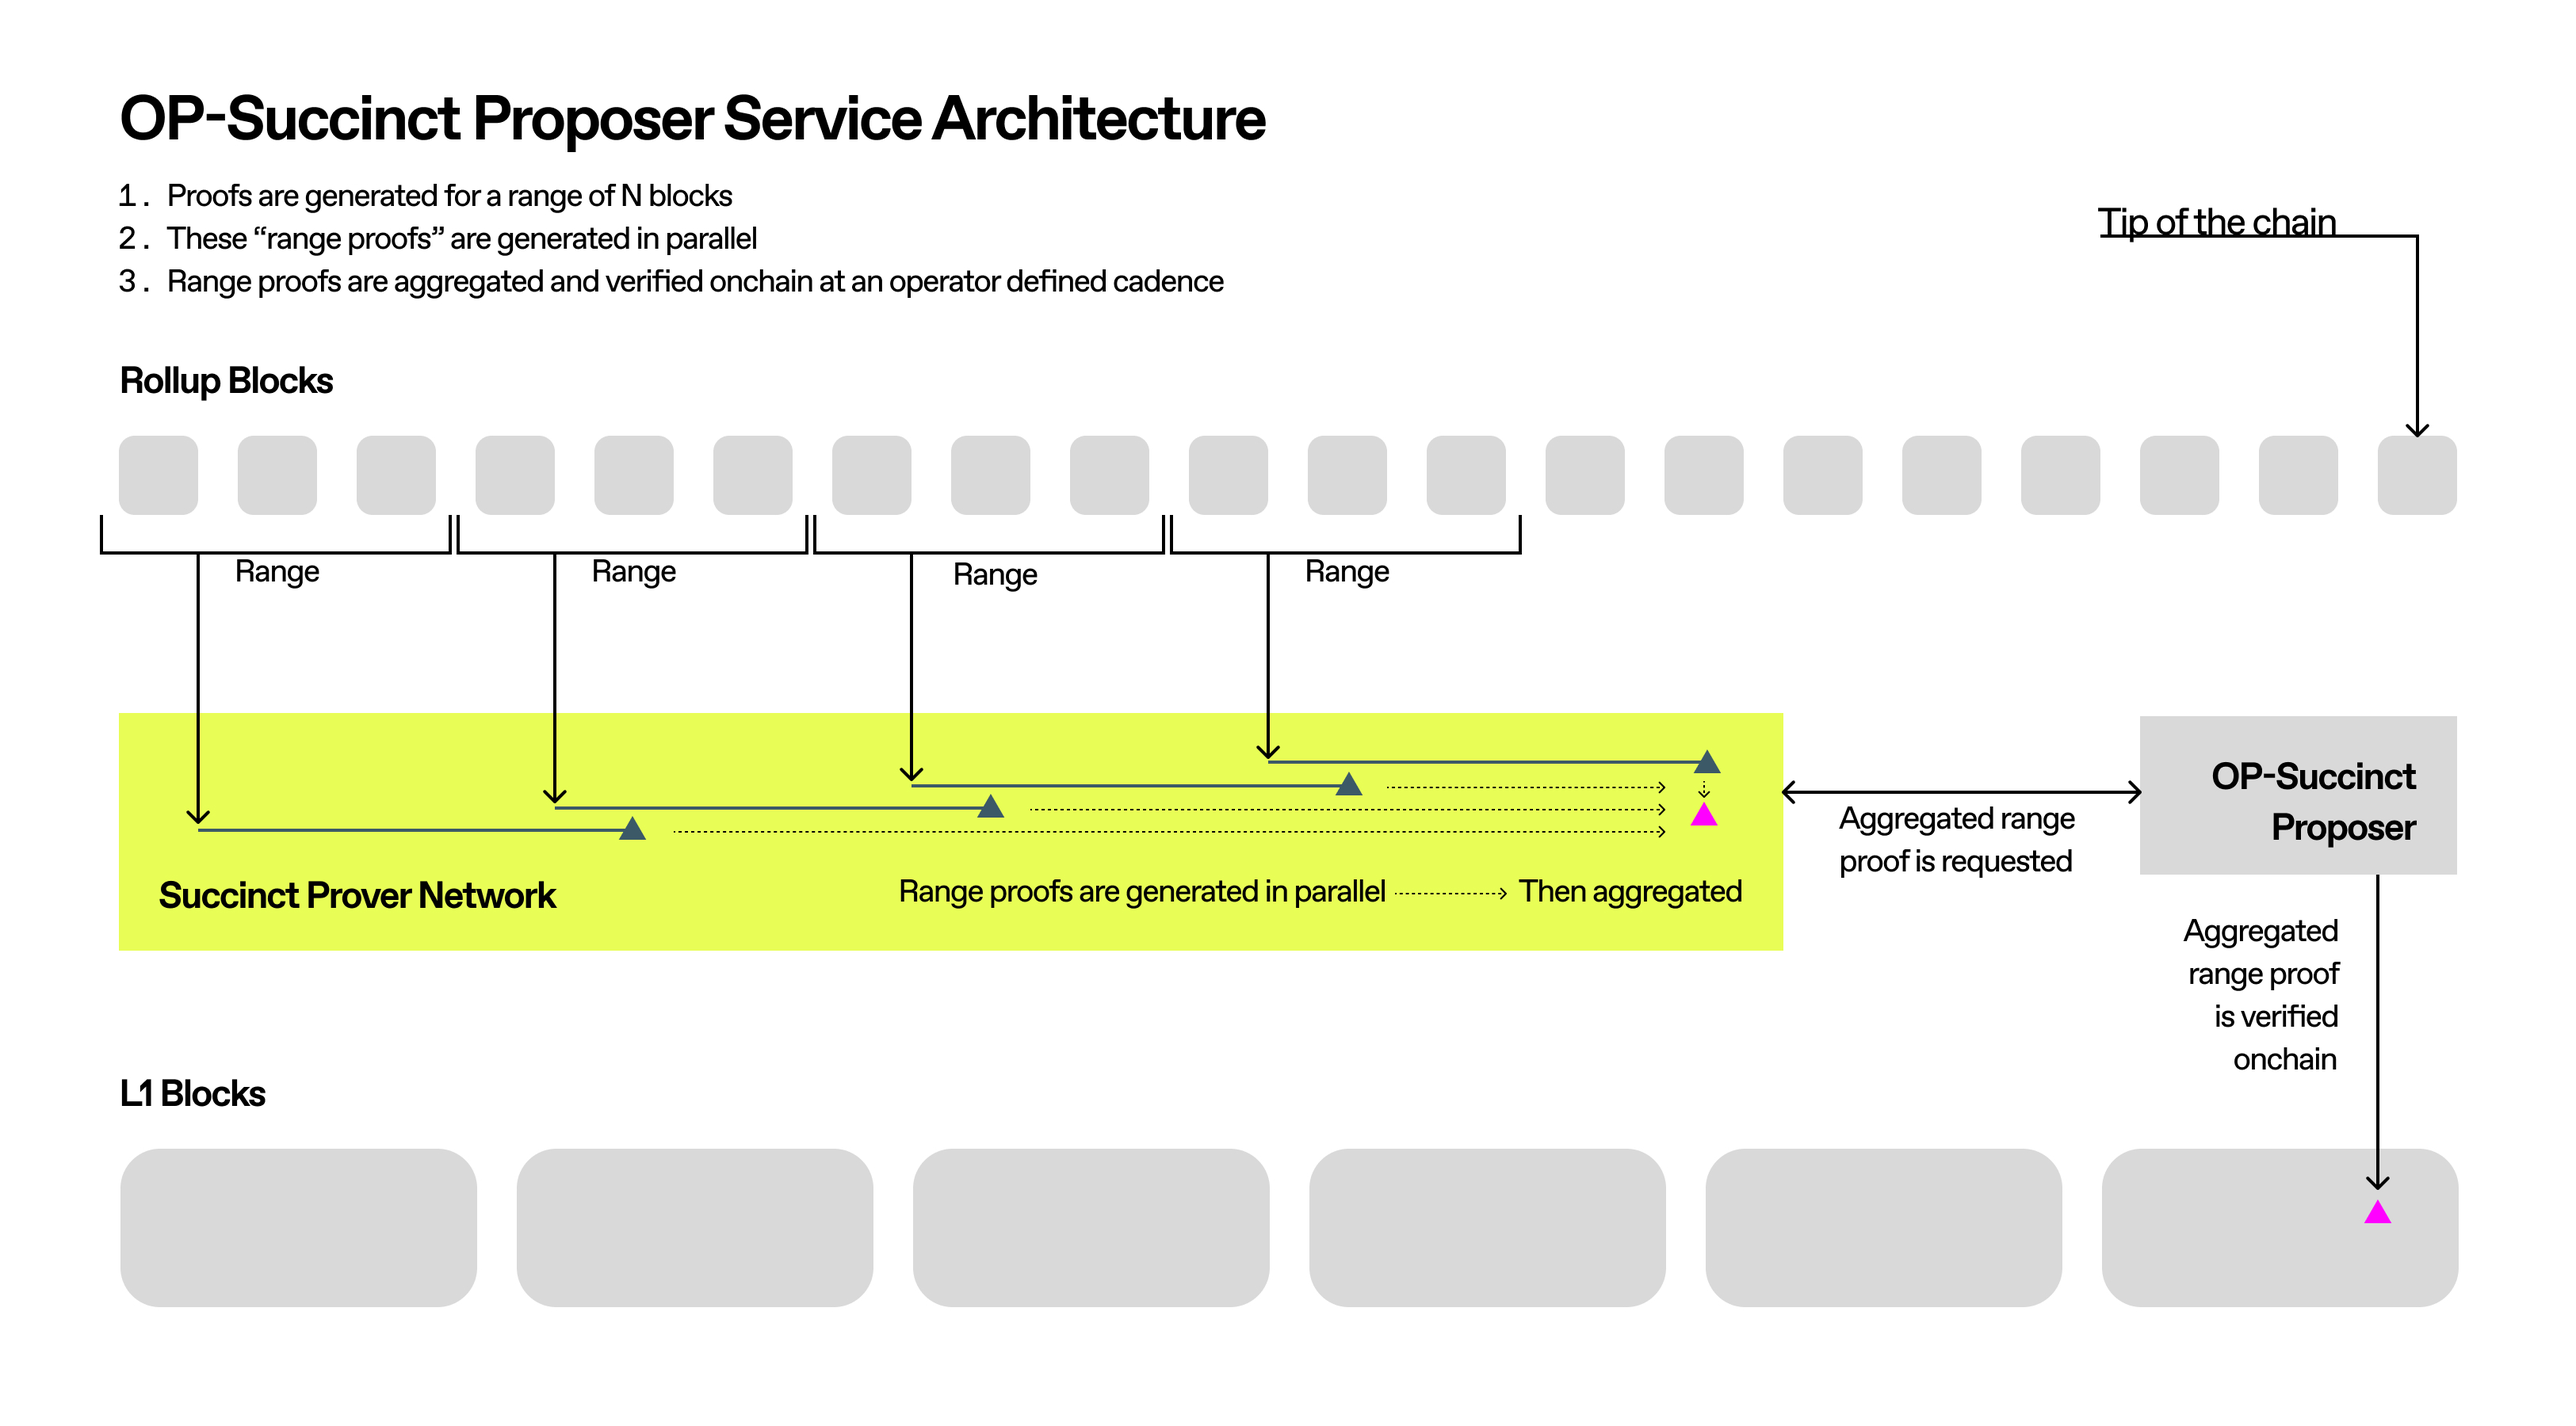
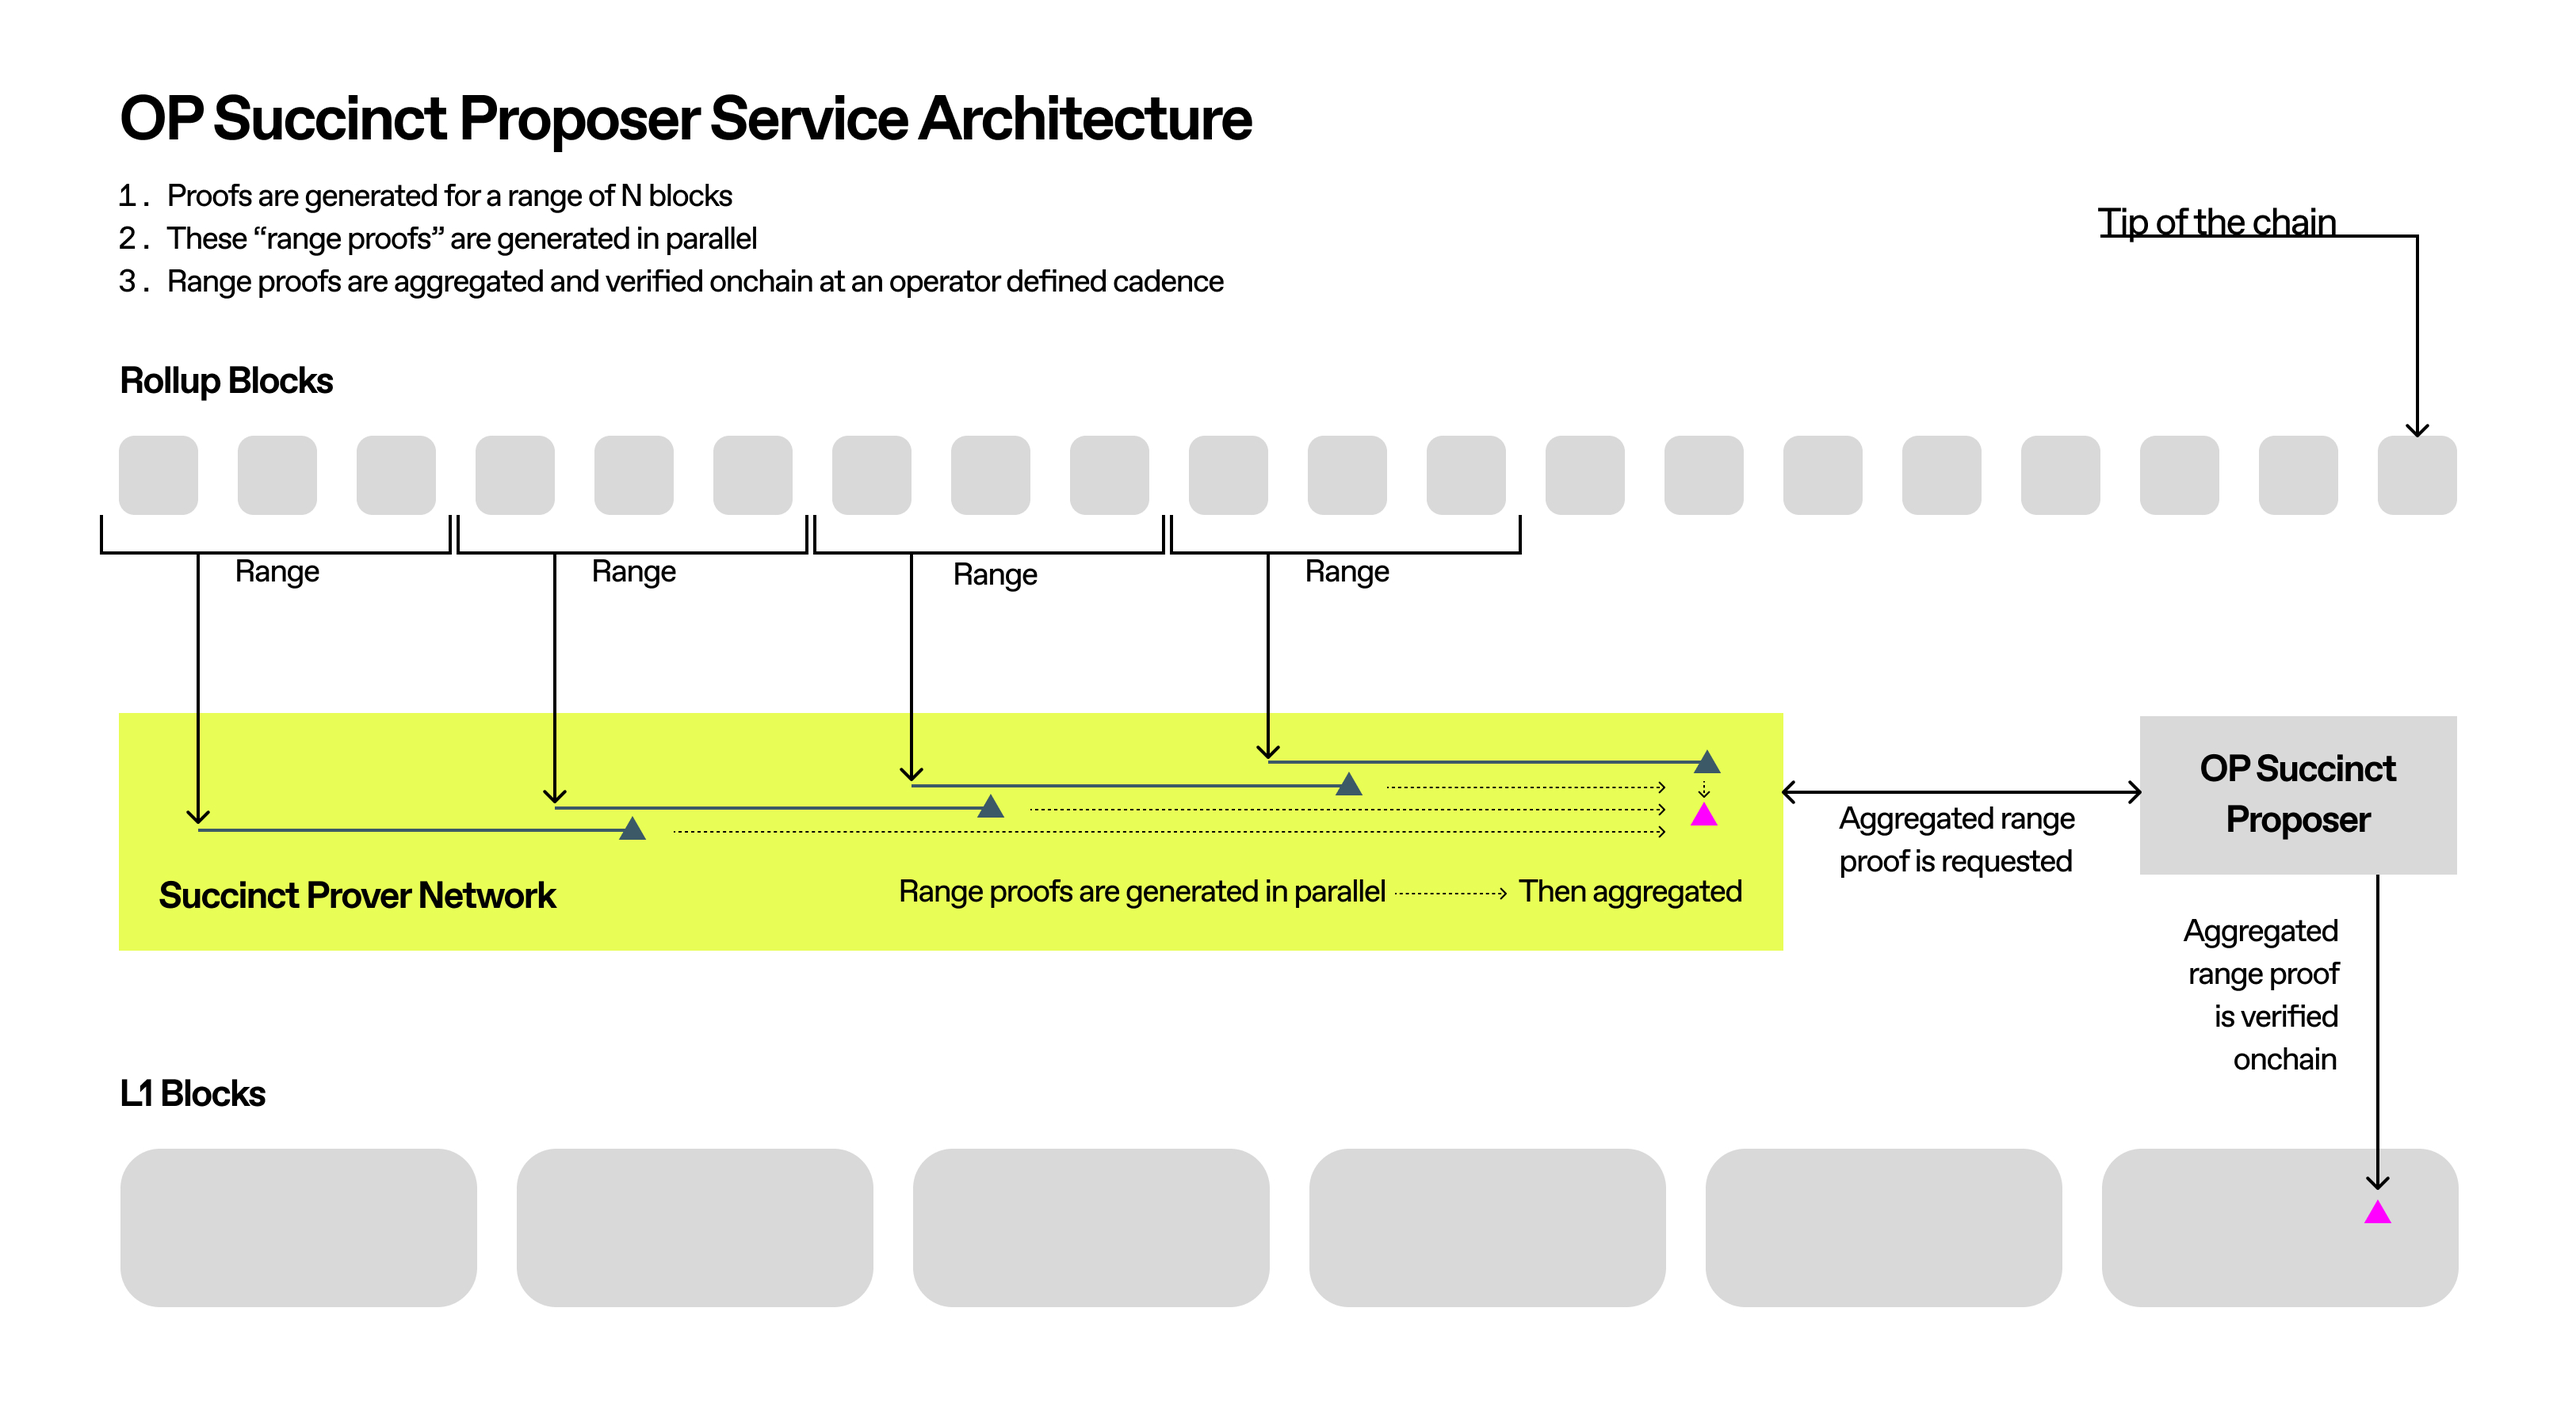
docs: update diagrams (#118)

Changed region(s): [[0.0622, 0.0622, 0.4972, 0.1244], [0.8391, 0.5289, 0.9323, 0.5911]]

diff --git a/crates/op-succinct/book/getting-started/intro.md b/crates/op-succinct/book/getting-started/intro.md
@@ -7,4 +7,4 @@ The steps are the following:
 2) **Start the OP Succinct Proposer.** This service is modified verison of the existing `op-proposer` service. It posts output roots to the L2 Output Oracle contract at regular intervals by orcheastrating the generation and aggregation of proofs.
 3) **Update your OP Stack Chain Configuration.** You will need to update your configuration to update the `L2OutputOracle` contract to the new implementation using your `ADMIN` key.
 
-![Getting Started](../assets/getting_started.jpg)
+![Getting Started](../assets/upgrading-op-stack.jpg)
